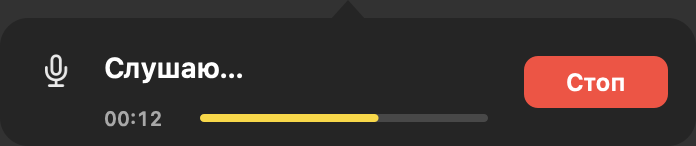
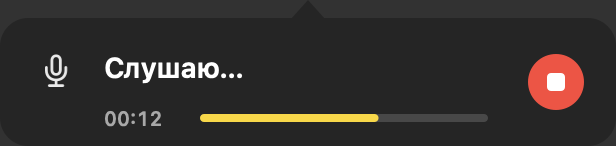
Кнопка Стоп заменена на иконку остановки

diff --git a/app/UI/HUDController.swift b/app/UI/HUDController.swift
@@ -22,8 +22,8 @@ final class HUDController {
     private let tailHeight: CGFloat = 9
     private let minWidth: CGFloat = 220
     private let maxWidth: CGFloat = 420
-    private let stopWidth: CGFloat = 72
-    private let stopHeight: CGFloat = 26
+    private let stopWidth: CGFloat = 32
+    private let stopHeight: CGFloat = 32
 
     var onStop: (() -> Void)?
 
@@ -158,18 +158,16 @@ final class HUDController {
         image.lockFocus()
         defer { image.unlockFocus() }
         let rect = NSRect(x: image.size.width - stopWidth - 14,
-                          y: 19, width: stopWidth, height: stopHeight)
+                          y: (bodyHeight - stopHeight) / 2,
+                          width: stopWidth, height: stopHeight)
         NSColor.systemRed.setFill()
-        NSBezierPath(roundedRect: rect, xRadius: 7, yRadius: 7).fill()
-        let attributes: [NSAttributedString.Key: Any] = [
-            .font: NSFont.systemFont(ofSize: 12, weight: .semibold),
-            .foregroundColor: NSColor.white,
-        ]
-        let title = "Стоп" as NSString
-        let size = title.size(withAttributes: attributes)
-        title.draw(at: NSPoint(x: rect.midX - size.width / 2,
-                               y: rect.midY - size.height / 2),
-                   withAttributes: attributes)
+        NSBezierPath(ovalIn: rect.insetBy(dx: 2, dy: 2)).fill()
+        let side: CGFloat = 9
+        let square = NSRect(x: rect.midX - side / 2,
+                            y: rect.midY - side / 2,
+                            width: side, height: side)
+        NSColor.white.setFill()
+        NSBezierPath(roundedRect: square, xRadius: 2, yRadius: 2).fill()
     }
 
     // MARK: - Часы записи
@@ -262,12 +260,11 @@ final class HUDController {
         stopPanel.animationBehavior = .none
         stopPanel.collectionBehavior = [.canJoinAllSpaces, .fullScreenAuxiliary, .ignoresCycle]
 
-        stopButton = StopButton(title: "Стоп", target: self, action: #selector(stopPressed))
-        stopButton.frame = NSRect(x: 0, y: 0, width: stopWidth, height: stopHeight)
-        stopButton.bezelStyle = .rounded
-        stopButton.font = .systemFont(ofSize: 12, weight: .semibold)
-        stopButton.bezelColor = .systemRed
-        stopButton.contentTintColor = .white
+        stopButton = StopButton(frame: NSRect(x: 0, y: 0, width: stopWidth, height: stopHeight))
+        stopButton.target = self
+        stopButton.action = #selector(stopPressed)
+        stopButton.title = ""
+        stopButton.isBordered = false
         stopButton.toolTip = "Остановить запись и отменить диктовку"
         stopButton.setAccessibilityLabel("Остановить запись")
         stopPanel.contentView = stopButton
@@ -337,7 +334,7 @@ final class HUDController {
     private func placeStopPanel() {
         let frame = panel.frame
         let x = frame.maxX - stopWidth - 14
-        let y = frame.minY + 19
+        let y = frame.minY + (bodyHeight - stopHeight) / 2
         stopPanel.setFrame(NSRect(x: x, y: y, width: stopWidth, height: stopHeight),
                            display: false)
     }
@@ -424,5 +421,43 @@ private final class StopPanel: NSPanel {
 }
 
 private final class StopButton: NSButton {
+    private var hovering = false
+
     override func acceptsFirstMouse(for event: NSEvent?) -> Bool { true }
+
+    override func updateTrackingAreas() {
+        super.updateTrackingAreas()
+        for area in trackingAreas {
+            removeTrackingArea(area)
+        }
+        addTrackingArea(NSTrackingArea(rect: bounds,
+                                       options: [.mouseEnteredAndExited, .activeAlways, .inVisibleRect],
+                                       owner: self,
+                                       userInfo: nil))
+    }
+
+    override func mouseEntered(with event: NSEvent) {
+        hovering = true
+        needsDisplay = true
+    }
+
+    override func mouseExited(with event: NSEvent) {
+        hovering = false
+        needsDisplay = true
+    }
+
+    override func draw(_ dirtyRect: NSRect) {
+        let color = hovering
+            ? (NSColor.systemRed.blended(withFraction: 0.12, of: .white) ?? .systemRed)
+            : .systemRed
+        color.setFill()
+        NSBezierPath(ovalIn: bounds.insetBy(dx: 2, dy: 2)).fill()
+
+        let side: CGFloat = 9
+        let square = NSRect(x: bounds.midX - side / 2,
+                            y: bounds.midY - side / 2,
+                            width: side, height: side)
+        NSColor.white.setFill()
+        NSBezierPath(roundedRect: square, xRadius: 2, yRadius: 2).fill()
+    }
 }

diff --git a/docs/testing.md b/docs/testing.md
@@ -59,7 +59,7 @@
 | S14 | Разные профили для диктовки и улучшения | В логах `dictation profile` и `improve: provider` указаны разные модели |
 | S15 | Время ответа AI | В `dictate.log` есть `AI response …ms`, в `app.log` — `ai: … elapsed=…ms` |
 | S16 | HUD после смены Space: запись → переключить Space | Бабл виден на активном Space |
-| S17 | Отмена кнопкой «Стоп»: запись → «Стоп» → TextEdit | Запись отменена, текста нет, фокус не потерян |
+| S17 | Отмена иконкой остановки: запись → иконка → TextEdit | Запись отменена, текста нет, фокус не потерян |
 
 ## 5. Сборка и упаковка
 
@@ -144,7 +144,7 @@
 | D19 | Порт занят | Занять 8799 другим сервером | Fallback на whisper-cli или понятная ошибка | P2 |
 | D20 | Выход во время записи | Cmd+Q во время записи | После перезапуска нет двух активных записей; зависший ffmpeg — дефект | P2 |
 | D21 | Повторная диктовка | 10 циклов | Нет утечек/зависаний, сервер жив | P1 |
-| D22 | Отмена записи кнопкой | Начать запись → «Стоп» в HUD | Микрофон остановлен, запись удалена, нет распознавания/AI/вставки/истории; HUD «Запись отменена» | P0 |
+| D22 | Отмена записи иконкой | Начать запись → красная иконка остановки в HUD | Микрофон остановлен, запись удалена, нет распознавания/AI/вставки/истории; HUD «Запись отменена» | P0 |
 | D23 | Отмена и фокус | TextEdit активен → запись → «Стоп» | TextEdit остаётся frontmost, курсор/выделение не меняются | P0 |
 
 ## 8.5. Улучшение выделенного текста
@@ -207,7 +207,7 @@
 | E13 | Смена дисплея | Подключить/отключить монитор при видимом HUD | HUD перепозиционируется на активный экран | P2 |
 | E14 | Долгий uptime | Приложение работало несколько дней → запись | HUD появляется; при необходимости перезапуск сбрасывает окно | P1 |
 | E15 | Установка поверх запущенного | Запустить установщик при работающем Runvoice | Старый процесс остановлен, запущен новый, HUD работает | P1 |
-| E16 | Кнопка «Стоп» | Начать запись → нажать кнопку | Кнопка видна только при записи, после клика скрывается, диктовка отменяется | P0 |
+| E16 | Иконка остановки | Начать запись → нажать красную иконку | Иконка видна только при записи, после клика скрывается, диктовка отменяется | P0 |
 | E17 | Click-through вокруг кнопки | Клик по телу бабла мимо «Стоп» | Клик доходит до окна под HUD; кнопка при этом работает | P1 |
 | E18 | Кнопка и Space | Начать запись → переключить Space | Кнопка и HUD видны на активном Space | P2 |
 

diff --git a/README.md b/README.md
@@ -558,8 +558,9 @@ make install-app
 Готовлю микрофон…  →  Слушаю…  →  Распознаю…  →  Обрабатываю текст…  →  Готово
 ```
 
-Во время записи справа появляется кнопка **«Стоп»**. Она полностью отменяет
-текущую диктовку: останавливает микрофон, удаляет запись и **не запускает**
+Во время записи справа появляется круглая красная **иконка остановки** с белым
+квадратом (подсказка «Остановить запись и отменить диктовку»). Она полностью
+отменяет текущую диктовку: останавливает микрофон, удаляет запись и **не запускает**
 распознавание, AI-постобработку, вставку и историю. Фокус остаётся в том окне,
 где вы печатали.
 
@@ -573,8 +574,9 @@ make install-app
 - **не забирает фокус** (nonactivating panel) — ⌘V попадает в ваше поле;
 - во время записи внизу — **таймер записи** и **живая полоска уровня микрофона**
   (зелёная → жёлтая → красная), обновляется ~16 раз в секунду;
-- во время записи справа — кнопка **«Стоп»** для полной отмены диктовки;
-- клики проходят **сквозь** бабл; кликабельной является только кнопка «Стоп»;
+- во время записи справа — круглая **иконка остановки** (красный круг с белым
+  квадратом) для полной отмены диктовки;
+- клики проходят **сквозь** бабл; кликабельной является только эта иконка;
 - бабл центрирован под значком и примыкает к меню-бару (хвостик смотрит на иконку);
   если места у края экрана не хватает — сдвигается, хвостик остаётся на значке;
 - следует за **активным Space**, окном в full-screen и текущим дисплеем; при смене

diff --git a/docs/screenshots/README.md b/docs/screenshots/README.md
@@ -8,7 +8,7 @@
 | Состояние | Что показывает |
 |---|---|
 | ![](hud-preparing.png) | `preparing` — «Готовлю микрофон…» |
-| ![](hud-recording.png) | `recording` — «Слушаю…», таймер, уровень микрофона и кнопка «Стоп» |
+| ![](hud-recording.png) | `recording` — «Слушаю…», таймер, уровень микрофона и иконка остановки |
 | ![](hud-transcribing.png) | `transcribing` — «Распознаю…» |
 | ![](hud-fixing.png) | `fixing` — «Обрабатываю текст…» |
 | ![](hud-done.png) | `done` — «Готово», зелёная галочка |
